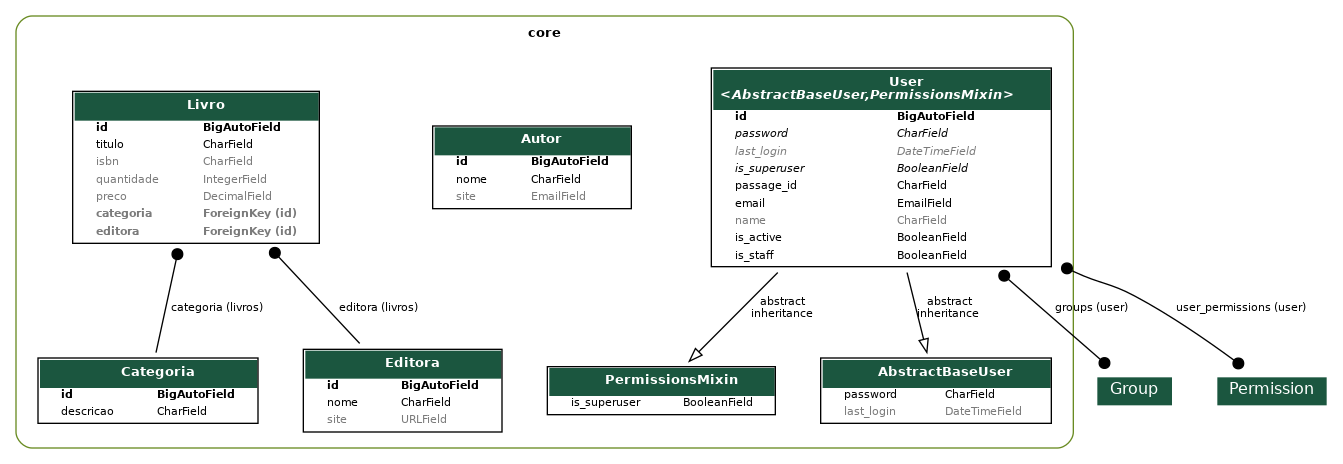
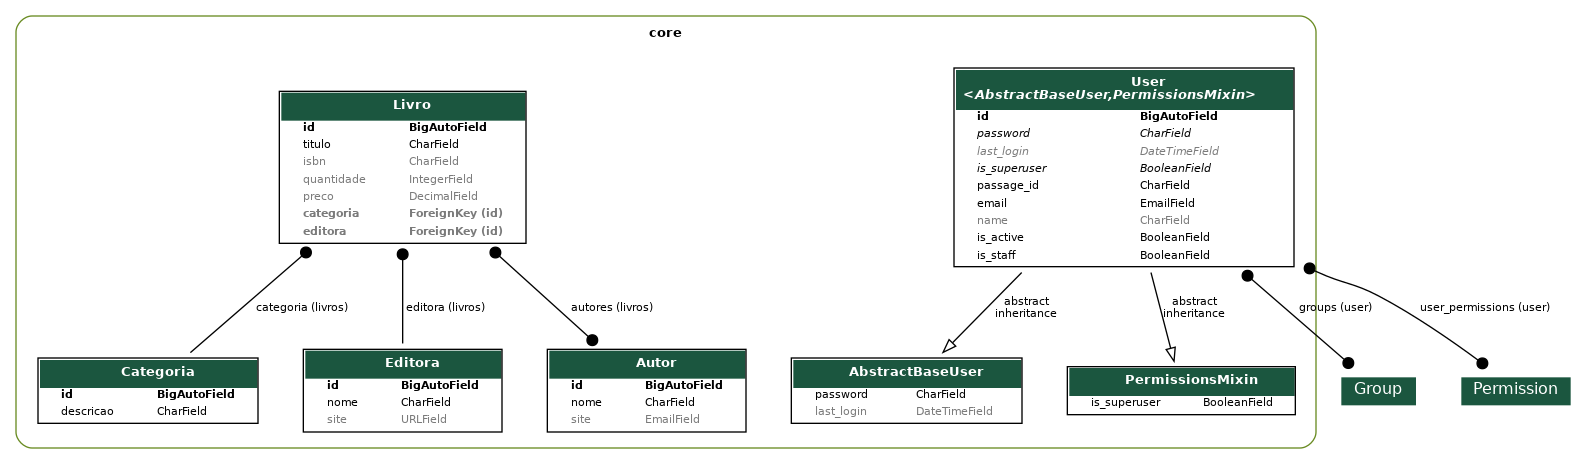
PASSO 11 COMPLETO

diff --git a/app/urls.py b/app/urls.py
@@ -9,12 +9,13 @@ from drf_spectacular.views import (
 from rest_framework.routers import DefaultRouter
 from rest_framework_simplejwt.views import TokenObtainPairView, TokenRefreshView
 
-from core.views import UserViewSet, CategoriaViewSet, EditoraViewSet, AutorViewSet
+from core.views import UserViewSet, CategoriaViewSet, EditoraViewSet, AutorViewSet, LivroViewSet
 
 router = DefaultRouter()
 router.register(r"categorias", CategoriaViewSet)
 router.register(r"editoras", EditoraViewSet)
 router.register(r"autores", AutorViewSet)
+router.register(r"livros", LivroViewSet)
 router.register(r"usuarios", UserViewSet, basename="usuarios")
 
 urlpatterns = [

diff --git a/core/views/livro.py b/core/views/livro.py
@@ -1,0 +1,17 @@
+from rest_framework.viewsets import ModelViewSet
+from core.models import Livro
+from core.serializers import LivroListSerializer, LivroRetrieveSerializer, LivroSerializer
+
+
+class LivroViewSet(ModelViewSet):
+    queryset = Livro.objects.all()
+    serializer_class = LivroSerializer
+
+    def get_serializer_class(self):
+        if self.action == "list":
+            return LivroListSerializer
+        elif self.action == "retrieve":
+            return LivroRetrieveSerializer
+        return LivroSerializer
+    
+    

diff --git a/core/serializers/livro.py b/core/serializers/livro.py
@@ -1,0 +1,18 @@
+from rest_framework.serializers import ModelSerializer
+from core.models import Livro
+
+class LivroSerializer(ModelSerializer):
+    class Meta:
+        model = Livro
+        fields = "__all__"
+
+class LivroListSerializer(ModelSerializer):
+    class Meta:
+        model = Livro
+        fields = ("id", "titulo", "preco")
+
+class LivroRetrieveSerializer(ModelSerializer):
+    class Meta:
+        model = Livro
+        fields = "__all__"
+        depth = 1

diff --git a/core/migrations/0010_livro_autores.py b/core/migrations/0010_livro_autores.py
@@ -1,0 +1,18 @@
+# Generated by Django 5.1.1 on 2024-11-11 12:10
+
+from django.db import migrations, models
+
+
+class Migration(migrations.Migration):
+
+    dependencies = [
+        ("core", "0009_livro_categoria_livro_editora"),
+    ]
+
+    operations = [
+        migrations.AddField(
+            model_name="livro",
+            name="autores",
+            field=models.ManyToManyField(blank=True, related_name="livros", to="core.autor"),
+        ),
+    ]

diff --git a/core/serializers/__init__.py b/core/serializers/__init__.py
@@ -2,3 +2,4 @@ from .user import UserSerializer
 from .categoria import CategoriaSerializer
 from .editora import EditoraSerializer
 from .autor import AutorSerializer 
+from .livro import LivroListSerializer, LivroRetrieveSerializer, LivroSerializer

diff --git a/core/views/__init__.py b/core/views/__init__.py
@@ -2,3 +2,4 @@ from .user import UserViewSet
 from .categoria import CategoriaViewSet
 from .editora import EditoraViewSet
 from .autor import AutorViewSet
+from .livro import LivroViewSet
